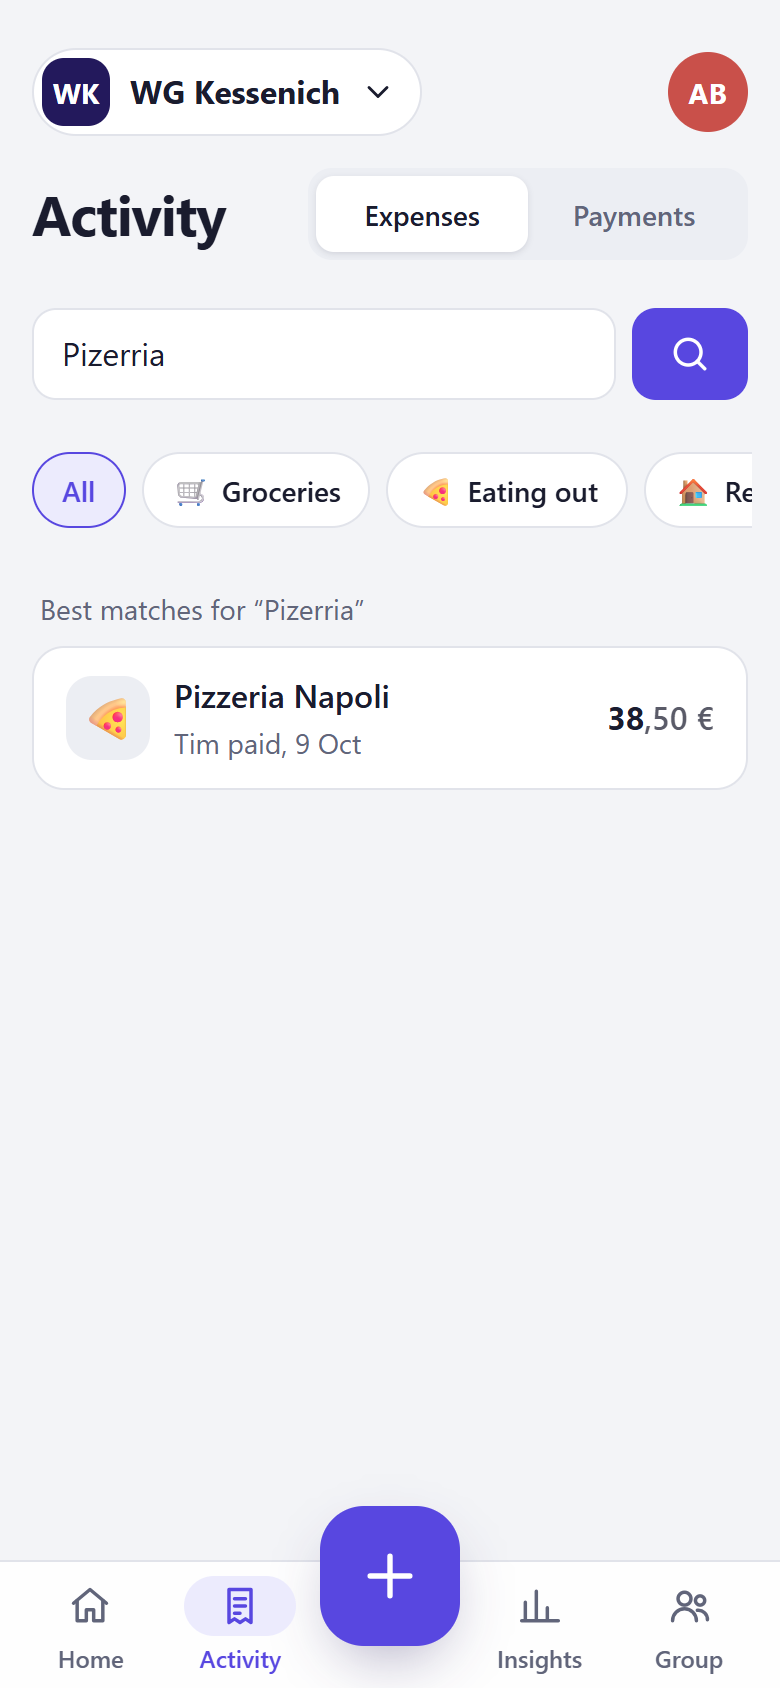
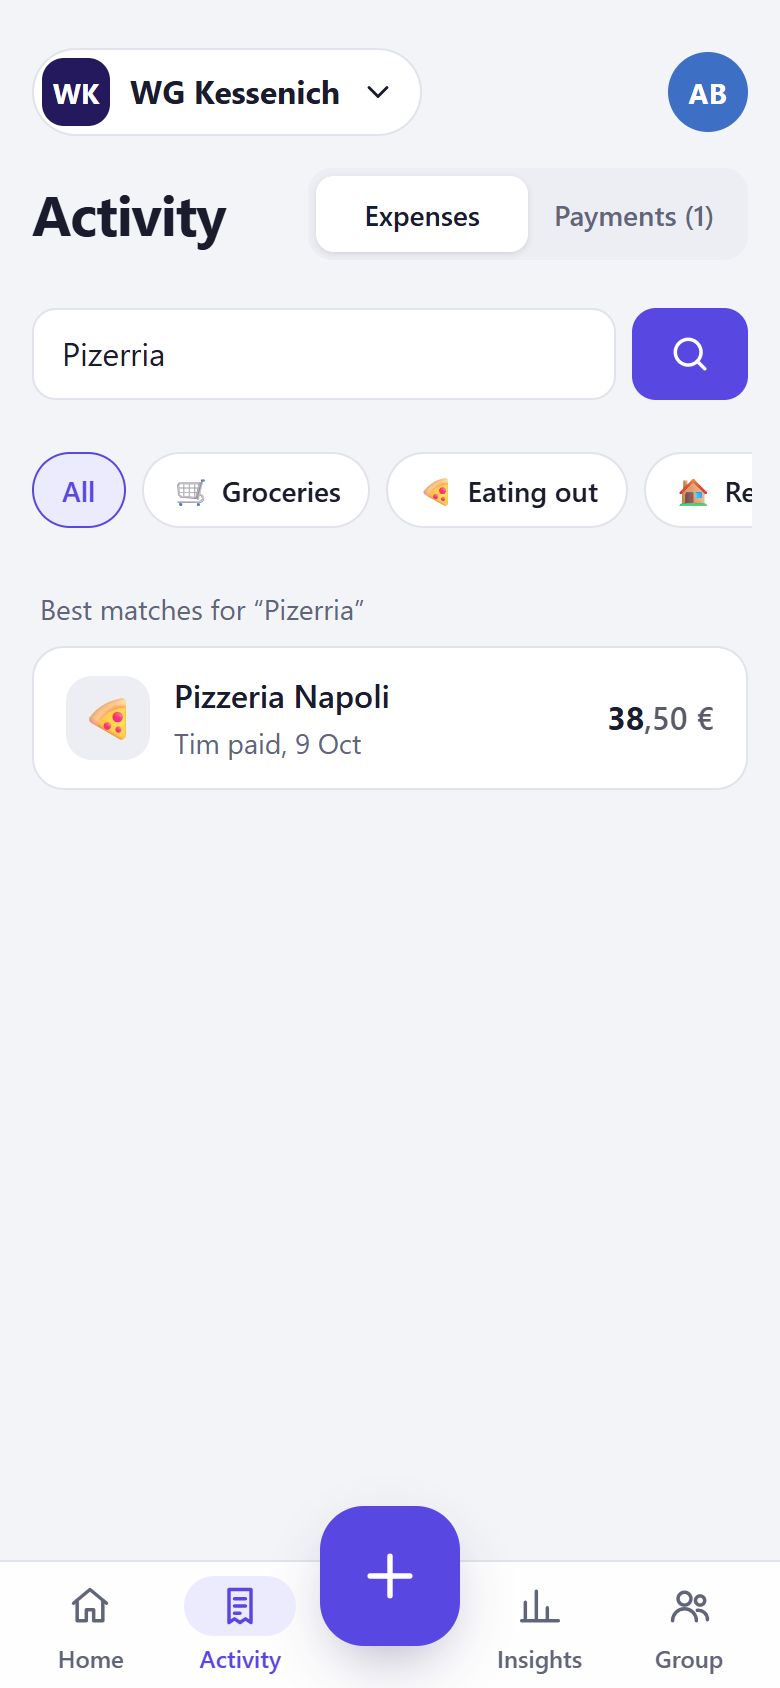
Screenshots of Activity and How it added up, payments in neutral grey
The README now also shows the full history with a deleted expense
crossed out, and the timeline behind the home card. In that timeline
being paid back is no longer red: it lowers what you are owed, but it
is not a loss, so payments are grey and only expenses are green or red.

Changed region(s): [[0.7077, 0.1232, 0.9231, 0.154], [0.8615, 0.0308, 0.9538, 0.0924]]

diff --git a/web/src/group/Activity.tsx b/web/src/group/Activity.tsx
@@ -61,7 +61,10 @@ export function ActivityFeed({ onSeen }: { onSeen: () => void }) {
                     </span>
                   </span>
                   {mine
-                    ? <Money cents={a.myChangeCents!} signed className={a.myChangeCents! > 0 ? 'owed' : 'owe'} />
+                    // Being paid back lowers what you are owed, but settling up is not a loss: payments stay
+                    // neutral, green and red are for expenses.
+                    ? <Money cents={a.myChangeCents!} signed
+                      className={a.kind.startsWith('PAYMENT') ? 'muted' : a.myChangeCents! > 0 ? 'owed' : 'owe'} />
                     : a.amountCents !== null && <Money cents={a.amountCents} className="muted" />}
                 </>
               );

diff --git a/README.md b/README.md
@@ -25,14 +25,14 @@ payment shows up as a candidate that only I can see. I share the ones that were 
 ignore the rest. Importing the same file twice, or one that overlaps last month's, adds nothing new,
 and two identical coffees on the same day still count as two.
 
-**Settle with a scan.** "You owe Lucy 23,48 €" comes with a GiroCode, the QR code German banking apps
-read for transfers. Name, IBAN, amount and reference are filled in, you check and send. If you'd
-rather type it, one tap copies the IBAN.
+**Settle with a scan.** "Lucy owes you 29,48 €" comes with a GiroCode, the QR code German banking apps
+read for transfers. Lucy scans it, finds name, IBAN, amount and reference already filled in, checks
+and sends. If she'd rather type it, one tap copies the IBAN.
 
 **A history nobody can rewrite.** Anyone can fix a mistake, but fixing never erases. Edit an
 expense and the old version stays in the history, crossed out, with who changed it and when. The
 home card opens a timeline of every expense and payment with what each one did to your balance, so
-you can see exactly how you ended up owing 767,45 €.
+you can see exactly how you ended up owing 749,45 €.
 
 **Search that understands German.** "Einkauf" finds "Einkäufe", a typo like "Pizerria" still finds
 "Pizzeria Napoli", and you can filter by person, category, date or amount. Free, for the whole history.
@@ -46,7 +46,11 @@ themselves from the shop name (REWE is groceries, DB is transport), monthly insi
 share, and a page for every person showing where you two stand.
 
 <p>
+  <img src="docs/evidence/2026-10-26-how-it-added-up.png" alt="How it added up: every expense and payment with what it did to your balance" width="230">
+  <img src="docs/evidence/2026-10-26-activity.png" alt="Activity: the whole history by month, with a deleted expense crossed out and who deleted it" width="230">
   <img src="docs/evidence/2026-10-26-person.png" alt="A person's page: where you two stand, with settle up, and the history between you" width="230">
+</p>
+<p>
   <img src="docs/evidence/2026-10-26-insights.png" alt="Insights: spending per month for the group and for you, and per category" width="230">
   <img src="docs/evidence/2026-10-26-search.png" alt="Search with a typo: Pizerria finds Pizzeria Napoli" width="230">
 </p>
